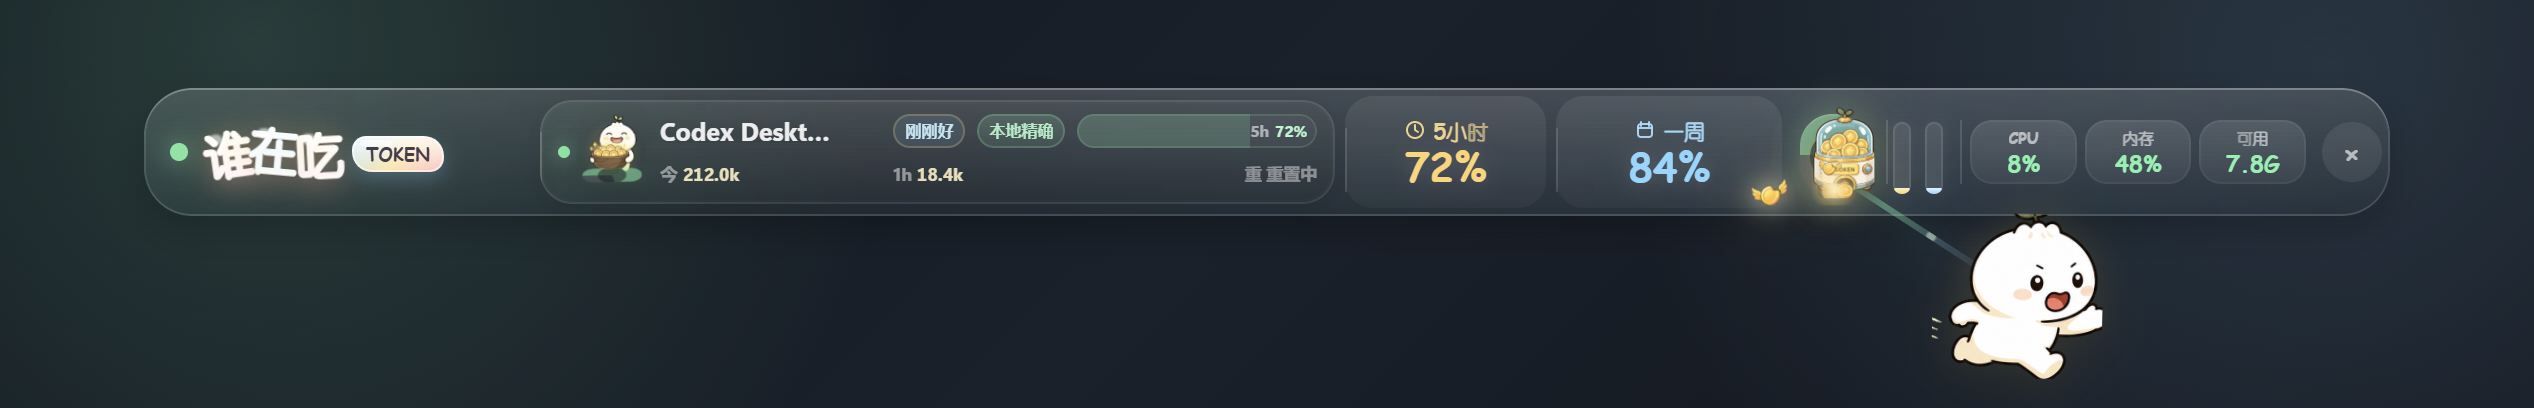
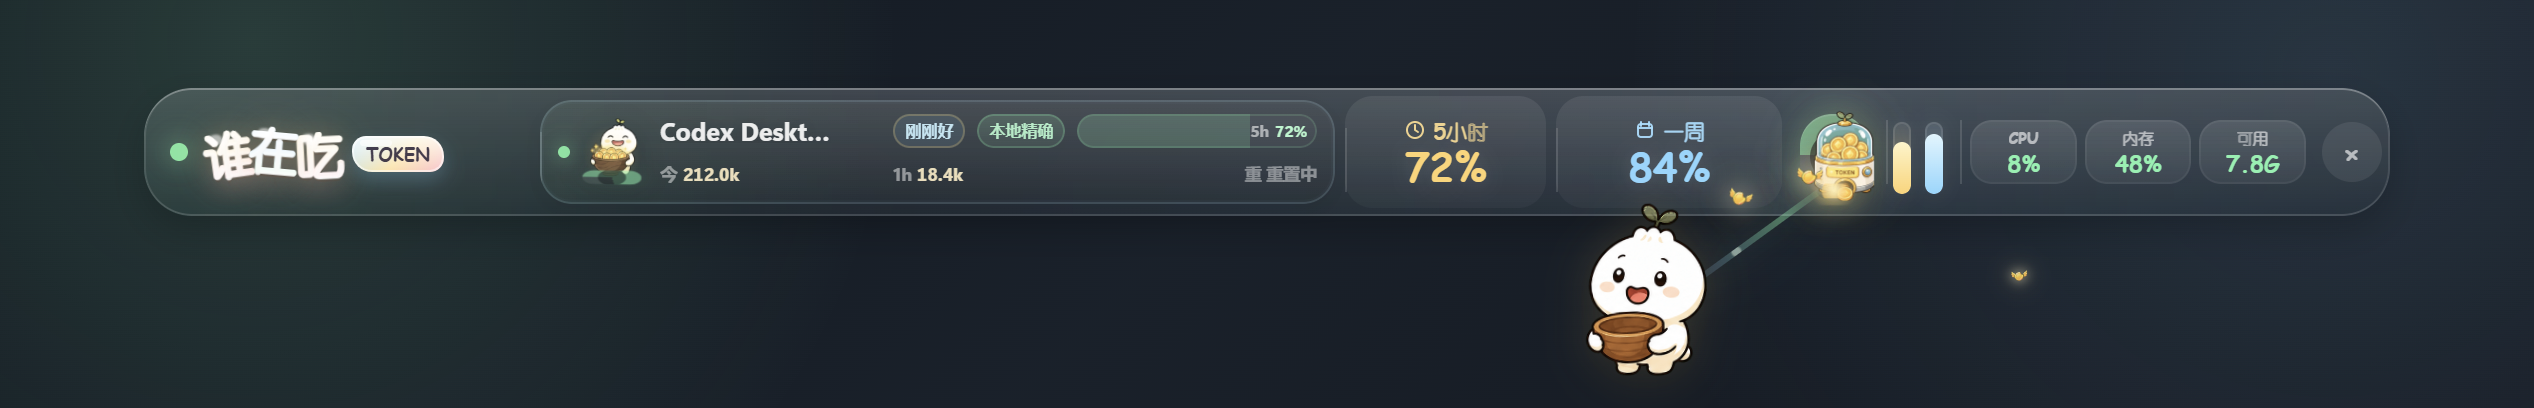
Fill README screenshot grid with HUD states
This commit adds two sanitized HUD state screenshots and reshapes the README screenshot block into a two-column grid so reviewers can see capacity, token-plan, low-quota, and settings states without empty layout space.

Constraint: Scope is limited to README screenshot evidence and the reusable screenshot generator.

Tested: node --check scripts\generate-readme-screenshots.cjs; npm run screenshots:readme; npm run test:docs; npm run secret:scan; git diff --cached --check

Confidence: high; staged diff excludes unrelated local changes.

Changed region(s): [[0.6235, 0.2647, 0.7794, 0.9118], [0.7482, 0.5294, 0.8418, 0.9412], [0.2182, 0.2941, 0.2494, 0.4412]]

diff --git a/README.md b/README.md
@@ -16,12 +16,13 @@ For OSS maintainers and reviewers:
 
 Generated with sanitized mock data via `npm run screenshots:readme`.
 
-<img src="docs/assets/screenshots/desktop-top-bar.png" alt="Desktop top bar showing Codex quota, usage, system status, and lightweight mascot state" width="900" />
+<img src="docs/assets/screenshots/desktop-top-bar.png" alt="Desktop top bar showing Codex quota, usage, system status, and lightweight mascot state" width="100%" />
 
-<p>
-  <img src="docs/assets/screenshots/in-tool-hud.png" alt="In-tool HUD showing five-hour and weekly quota, trust label, forecast, and mascot state" width="420" />
-  <img src="docs/assets/screenshots/settings-panel.png" alt="Settings panel for desktop top bar, in-tool HUD, visual style, alerts, performance, and adapter setup" width="420" />
-</p>
+| Codex capacity HUD | Hermes token plan HUD |
+| --- | --- |
+| <img src="docs/assets/screenshots/in-tool-hud.png" alt="In-tool HUD showing five-hour and weekly quota, trust label, forecast, and mascot state with sanitized mock data" width="100%" /> | <img src="docs/assets/screenshots/token-plan-hud.png" alt="Hermes token plan HUD showing remaining credits, used credits, and estimate trust label with sanitized mock data" width="100%" /> |
+| Low quota warning | Settings panel |
+| <img src="docs/assets/screenshots/low-quota-hud.png" alt="In-tool HUD showing a low five-hour quota warning, forecast text, and exact-local trust label with sanitized mock data" width="100%" /> | <img src="docs/assets/screenshots/settings-panel.png" alt="Settings panel for desktop top bar, in-tool HUD, visual style, alerts, performance, and adapter setup" width="100%" /> |
 
 本地低占用 LLM 容量监控顶栏，目标平台是 Windows 10+ 和 macOS：
 